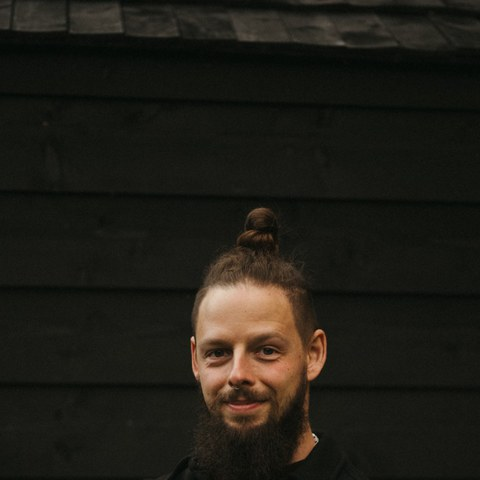
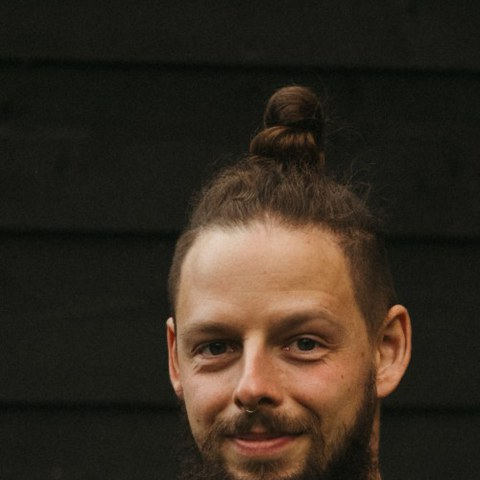
Hero photo: center face in circle, aurora overlay, upper-left position
- Re-crop 500x500 centered on face (y=330, x=400 in original)
- .tz-hero-gradient z-index: 2 (above photo z-index: 1)
- .tz-hero-content z-index: 3 (text above everything)
- Photo positioned right: 22%, top: 12% (upper-left towards heading)

diff --git a/index.html b/index.html
@@ -162,7 +162,7 @@
 
   .tz-hero-content {
     position: relative;
-    z-index: 1;
+    z-index: 3;
   }
 
   .tz-hero-label {
@@ -2124,7 +2124,7 @@
     right: 0;
     width: 54%;
     height: 100%;
-    z-index: 0;
+    z-index: 2;
     pointer-events: none;
   }
 
@@ -2139,13 +2139,12 @@
   /* ─── HERO PHOTO ─── */
   .tz-hero-photo-wrap {
     position: absolute;
-    right: 6%;
-    top: 50%;
-    transform: translateY(-50%);
+    right: 22%;
+    top: 12%;
     width: 220px;
     height: 220px;
     border-radius: 50%;
-    z-index: 3;
+    z-index: 1;
     pointer-events: none;
     opacity: 0;
     transition: opacity 0.5s ease;
